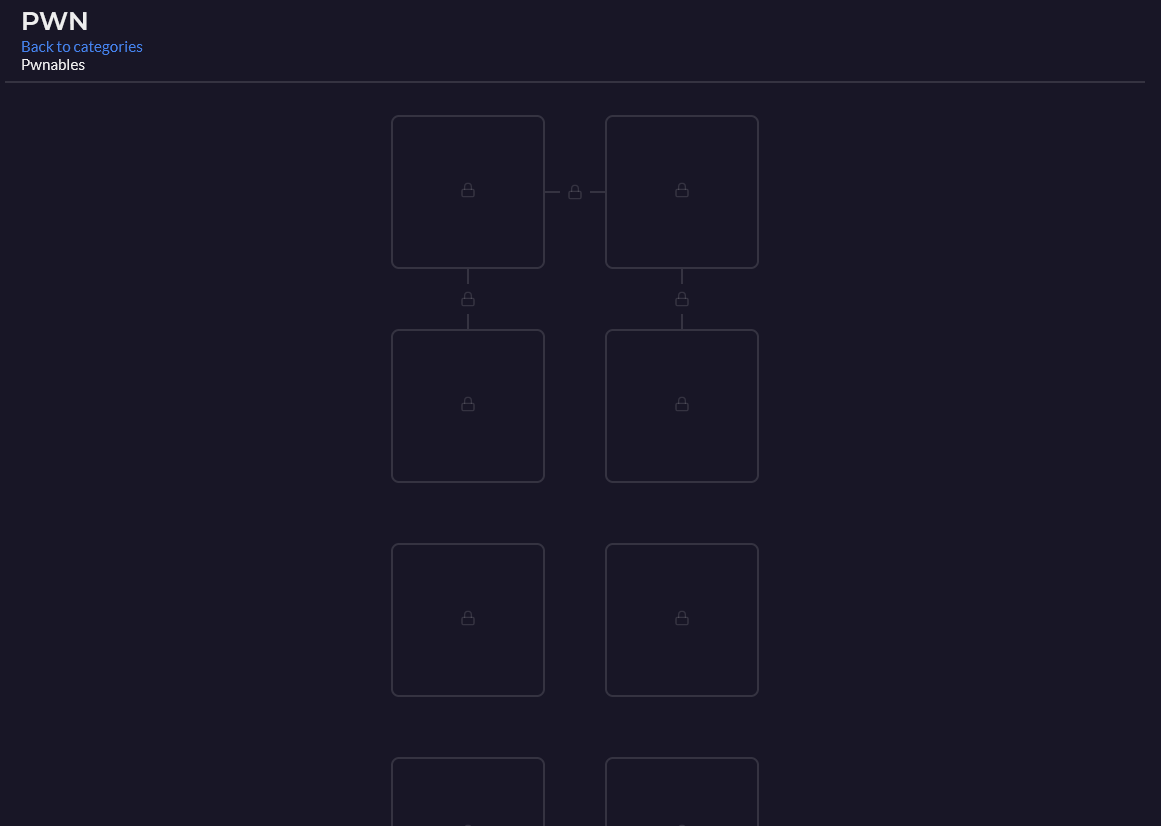
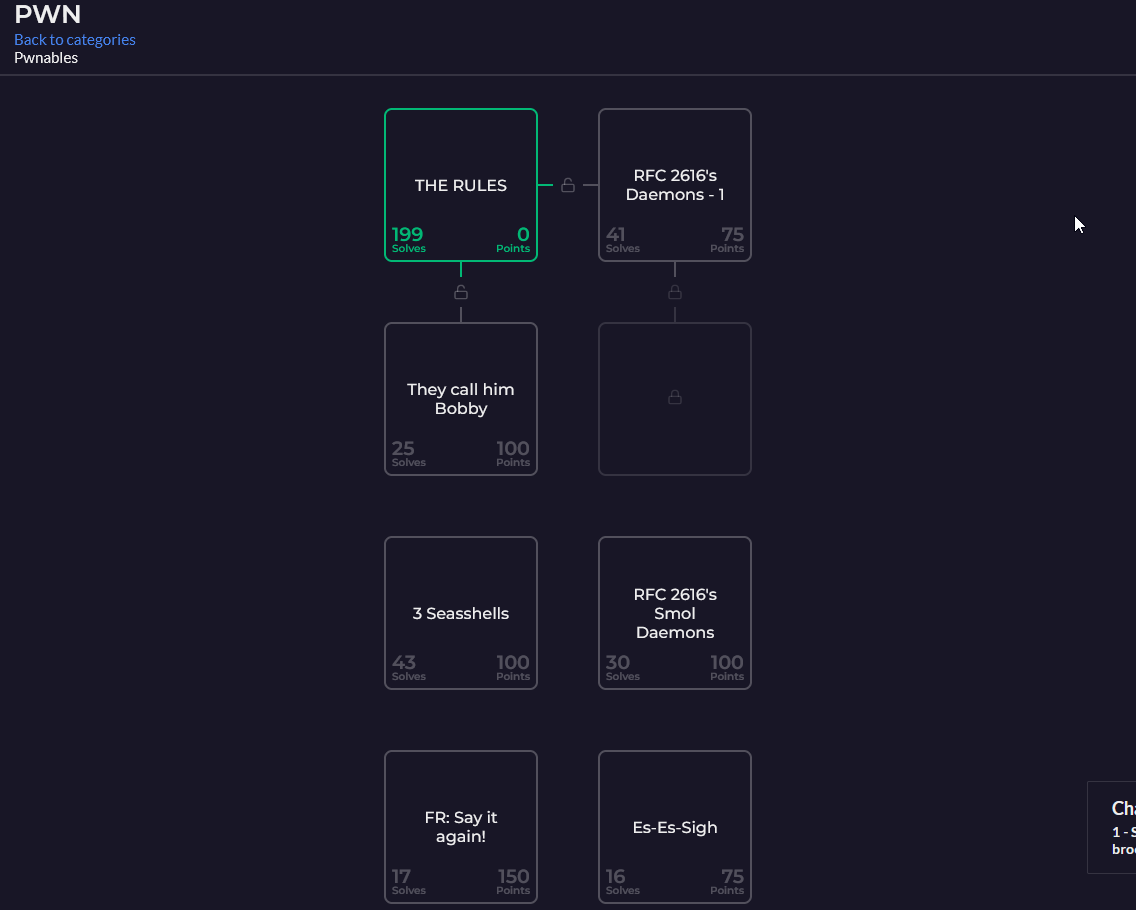
.

diff --git a/PWN/README.md b/PWN/README.md
@@ -1,5 +1,76 @@
 # PWN
+- [PWN](#pwn)
+  - [THE RULES](#the-rules)
+  - [RFC 2616's Daemons - 1](#rfc-2616s-daemons---1)
+  - [They call him Bobby](#they-call-him-bobby)
+  - [](#)
+  - [3 Seasshells](#3-seasshells)
+  - [RFC 2616's Smol Daemons](#rfc-2616s-smol-daemons)
+  - [FR: Say it again!](#fr-say-it-again)
+  - [Es-Es-Sigh](#es-es-sigh)
 
-![Alt text](images/image_001.png)
+![Challenges](images/image_001.png)
 
-<https://d00mfist.gitbooks.io/ctf/content/bypass_image_upload.html>
+---
+
+## THE RULES
+
+![Challenge](images/image_002.png)
+
+No Flag - [THE RULES Resolution](rules/README.md)
+
+---
+
+## RFC 2616's Daemons - 1
+
+![Challenge](images/image_003.png)
+
+No Flag - [RFC 2616's Daemons - 1 Resolution](rfc/README.md)
+
+---
+
+## They call him Bobby
+
+![Challenge](images/image_004.png)
+
+No Flag - [They call him Bobby Resolution](Bobby/README.md)
+
+---
+
+## 
+
+![Challenge](images/image_005.png)
+
+---
+
+## 3 Seasshells
+
+![Challenge](images/image_006.png)
+
+No Flag - [3 Seasshells Resolution](Seasshells/README.md)
+
+---
+
+## RFC 2616's Smol Daemons
+
+![Challenge](images/image_007.png)
+
+No Flag - [RFC 2616's Smol Daemons Resolution](smol/README.md)
+
+---
+
+## FR: Say it again!
+
+![Challenge](images/image_008.png)
+
+No Flag - [FR: Say it again! Resolution](Say/README.md)
+
+---
+
+## Es-Es-Sigh
+
+![Challenge](images/image_009.png)
+
+No Flag - [Es-Es-Sigh Resolution](Sigh/README.md)
+
+---

diff --git a/PWN/Sigh/README.md b/PWN/Sigh/README.md
@@ -1,0 +1,9 @@
+# Es-Es-Sigh
+
+### Es-Es-Sigh  - Resolution
+
+Imgae upload bypass
+
+<https://d00mfist.gitbooks.io/ctf/content/bypass_image_upload.html>
+
+``` Flag :  ```

diff --git a/PWN/Bobby/README.md b/PWN/Bobby/README.md
@@ -1,0 +1,9 @@
+# They call him Bobby
+
+### They call him Bobby  - Resolution
+
+<https://bobby-tables.com/>
+
+- sql injection ?
+
+``` Flag :  ```

diff --git a/PWN/smol/README.md b/PWN/smol/README.md
@@ -1,0 +1,6 @@
+# RFC 2616's Smol Daemons
+
+### RFC 2616's Smol Daemons  - Resolution
+
+
+``` Flag :  ```

diff --git a/PWN/rfc/README.md b/PWN/rfc/README.md
@@ -1,0 +1,5 @@
+# RFC 2616's Daemons - 1
+
+### RFC 2616's Daemons - 1 - Resolution
+
+``` Flag :  ```

diff --git a/PWN/rules/README.md b/PWN/rules/README.md
@@ -1,0 +1,5 @@
+# THE RULES
+
+### THE RULES - Resolution
+
+``` Flag : DOCTF{I_ACCEPT_THE_RULES} ```

diff --git a/PWN/Say/README.md b/PWN/Say/README.md
@@ -1,0 +1,6 @@
+# FR: Say it again!
+
+### FR: Say it again!  - Resolution
+
+
+``` Flag :  ```

diff --git a/PWN/Seasshels/README.md b/PWN/Seasshels/README.md
@@ -1,0 +1,6 @@
+# 3 Seasshells
+
+### 3 Seasshells  - Resolution
+
+
+``` Flag :  ```
